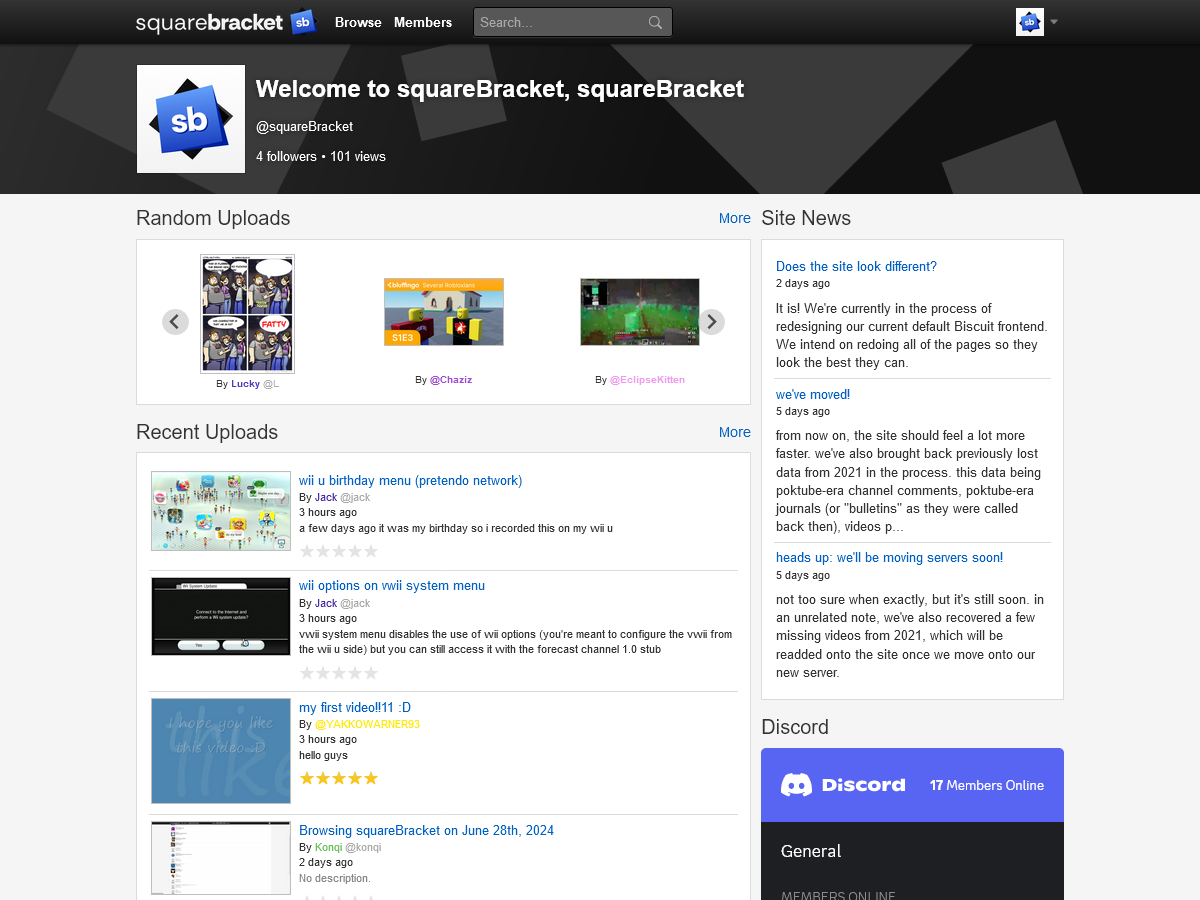
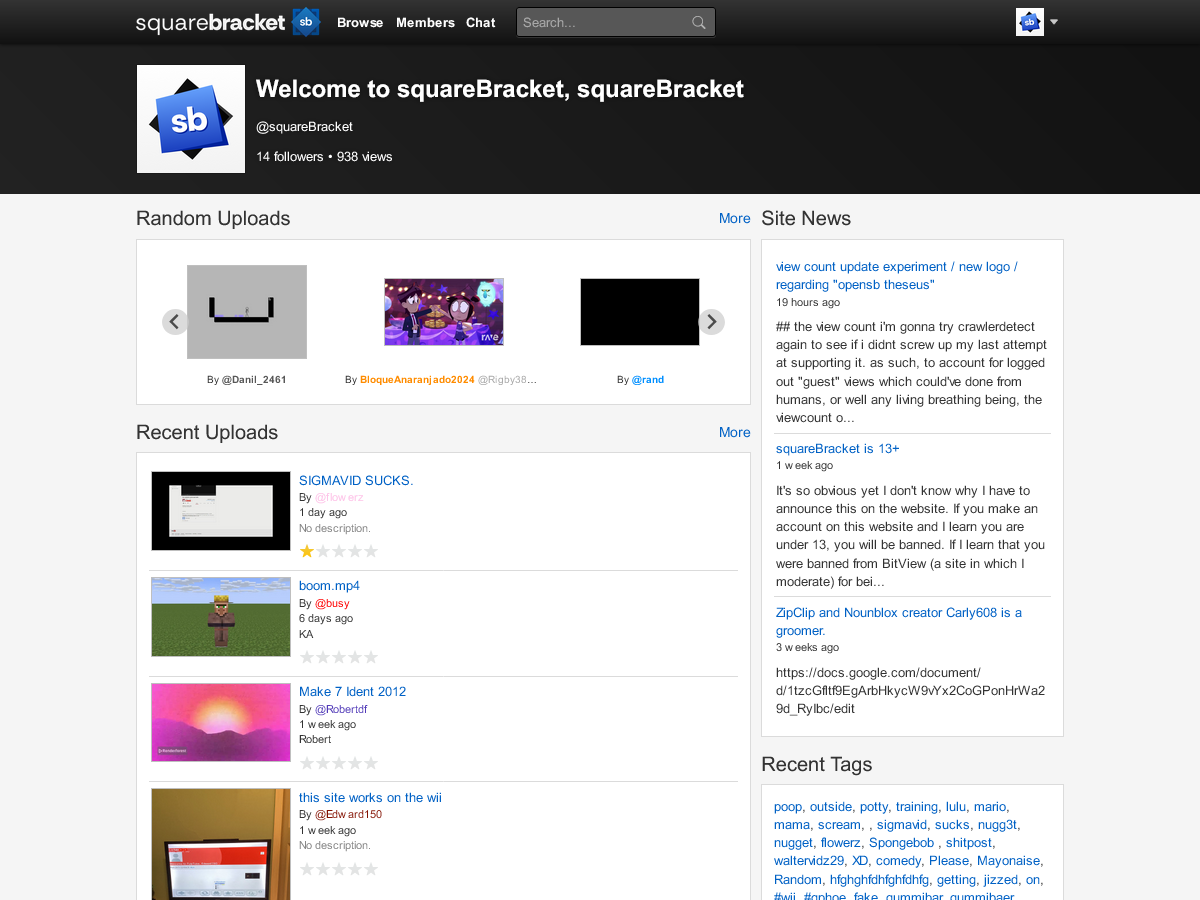
add pink theme by mori

diff --git a/scss/biscuit/biscuit/_header.scss b/scss/biscuit/biscuit/_header.scss
@@ -50,7 +50,10 @@
       .user-menu-caret-container {
         display: inline-block;
         font-size: 10px;
-        color: #7B7B7B;
+        color: rgba(255, 255, 255, 0.75);
+        @if $theme == "pink" {
+          color: rgba(0, 0, 0, 0.75);
+        }
       }
     }
   }
@@ -117,15 +120,26 @@ form.header-search
     color: #eee;
     background: #575757;
     box-shadow: 0 1px 0 #333;
-
     padding: 6px 40px 6px 6px;
-
     height: 30px;
+
+    @if $theme == "pink" {
+      background: #ffe0e0;
+      border: #ff7c7c solid 1px;
+      color: #444;
+      box-shadow: none;
+    }
 
     &:focus {
       background: #eee;
       color: #222;
-      box-shadow: 0 1px 0 #000;
+      box-shadow: 0 1px 0 #ff6d6d;
+      @if $theme == "pink" {
+        background: #ffe0e0;
+        border: #ff7c7c solid 1px;
+        box-shadow: #ff6d6d 0 1px 5px;
+        color: #111;
+      }
     }
   }
 
@@ -166,6 +180,10 @@ td.h
   margin: 0 6px;
   font-weight: bold;
 
+  @if $theme == "pink" {
+    color: black;
+  }
+
   &.username {
     display: none;
 
@@ -188,13 +206,18 @@ td.h
   }
 
   width: 100%;
+  background: linear-gradient(to bottom, #333, #111);
+  box-shadow: 0 1px 2px rgba(0,0,0,0.5);
+
   @if $theme == "cubicle" {
     background: #4e9a06;
     font-family: "Trebuchet MS", $font;
-  } @else {
-    background: linear-gradient(to bottom, #333, #111);
-    box-shadow: 0 1px 2px rgba(0,0,0,0.5);
   }
+
+  @if $theme == "pink" {
+    background: linear-gradient(to bottom, #ffc2c2, #FF9A9A);
+  }
+
   height: $header-height;
   display: flex;
 }

diff --git a/public/assets/theme.js b/public/assets/theme.js
@@ -3,8 +3,11 @@ function updatePreview() {
     const selectedOption = themeSelect.options[themeSelect.selectedIndex];
     const previewUrl = selectedOption.getAttribute('data-preview-url');
     const description = selectedOption.getAttribute('data-description');
+    const author = selectedOption.getAttribute('data-author');
+
     const themePreview = document.getElementById('themePreview');
     const themeDescription = document.getElementById('themeDescription');
+    const themeAuthor = document.getElementById('themeAuthor');
 
     if (previewUrl) {
         themePreview.src = previewUrl;
@@ -14,5 +17,6 @@ function updatePreview() {
     }
 
     themeDescription.textContent = description || 'No description available.';
+    themeAuthor.textContent = author ? `By ${author}` : '';
 }
 window.onload = updatePreview;

diff --git a/scss/biscuit/biscuit/_jumbotron.scss b/scss/biscuit/biscuit/_jumbotron.scss
@@ -5,8 +5,12 @@
       margin: 0;
     }
 
-    background: #111 url("/assets/biscuit_banner.svg");
+    background: #111 linear-gradient(45deg, #222 0%, #111 100%);
+    @if $theme == "pink" {
+      background: #111 linear-gradient(45deg, #fdbaba 0%, #E89693 100%);
+    }
     background-size: cover;
+
     color: white;
     text-shadow: 0 0 0.5em #00000090;
     padding: 20px 0;
@@ -20,11 +24,11 @@
       }
     }
 
-    &.fulptube {
-      background: #d90808 url("/assets/biscuit_banner_fulp.svg");
+    background: #111 linear-gradient(45deg, #222 0%, #111 100%);
+    @if $theme == "pink" {
+      background: #111 linear-gradient(45deg, #fdbaba 0%, #E89693 100%);
     }
 
-    background: #111 url("/assets/biscuit_banner.svg");
     background-size: cover;
     color: white;
     text-shadow: 0 0 0.5em #00000090;

diff --git a/scss/biscuit/biscuit/_variables.scss b/scss/biscuit/biscuit/_variables.scss
@@ -1,18 +1,20 @@
-// these are most of the variables used by the default theme.
-
-$isOpenSB2: false;
-
 // colors
 
 $threshold: 66%; // contrast threshold
 
 $primary: #3498db; // primary color
+@if $theme == "pink" {
+        $primary: #edb1c1; // primary color
+}
 $primary-darker: darken($primary, 33%); // darker primary color
 $secondary: #eee; //secondary color (nearly white)
 $green: #28c228;
 $red: #c01b0c;
 
 $link-color: #0061c5;
+@if $theme == "pink" {
+        $link-color: #c61b7a;
+}
 
 $color-map: (
         "primary": $primary,

diff --git a/scss/biscuit/biscuit/_buttons.scss b/scss/biscuit/biscuit/_buttons.scss
@@ -39,8 +39,13 @@
     background-color: $value;
     @include gradient-y($start-color: adjust-hue(lighten($value, 9%), 2), $end-color: adjust-hue(darken($value, 6%), 6));
 
-    color: contrast-color($value, #000, #fff);
-    text-shadow: 0 -1px 0 rgba(black, 0.4);
+    $text-color: contrast-color($value, #000, #fff);
+
+    color: $text-color;
+
+    @if $text-color != #fff {
+      text-shadow: none;
+    }
 
     &:hover {
       background-color: lighten($value, 10%);

diff --git a/scss/biscuit/pink.scss b/scss/biscuit/pink.scss
@@ -1,0 +1,8 @@
+/*!
+ * OpenSB Biscuit (Finalium 2)
+ * Made by Chaziz for OpenSB
+ */
+
+$theme: "pink";
+
+@import 'biscuit/imports';
